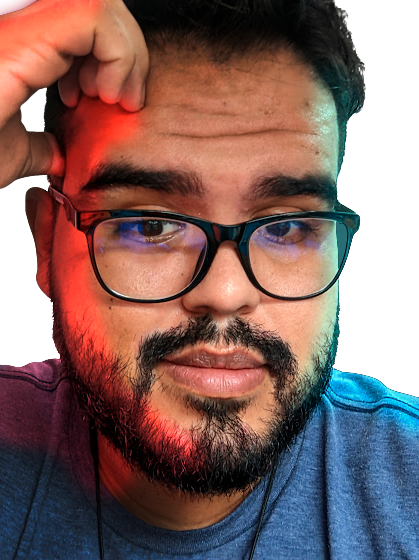
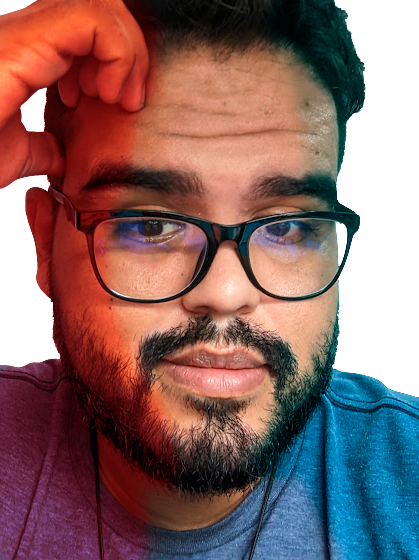
fixed background

diff --git a/css/main.min.css b/css/main.min.css
@@ -1,1 +1,1 @@
-@import"https://fonts.googleapis.com/css2?family=Poppins:ital,wght@0,300;0,400;0,500;0,600;1,300;1,400;1,500;1,600&display=swap";*{margin:0;padding:0;-webkit-box-sizing:border-box;box-sizing:border-box;text-decoration:none;list-style:none;font-family:"Poppins",sans-serif;font-weight:400;color:#fff;transition:.3s ease-in-out}a{text-decoration:none}button{border:0;background:rgba(0,0,0,0);cursor:pointer}img{height:auto;border:0;display:block;max-width:100%}html{font-size:62.5%}body{background-color:#262626}@keyframes activate{0%{transform:scale(0, 0)}100%{transform:scale(1, 1)}}.s-profile{margin:0 5%;display:flex}@media(max-width: 1440px){.s-profile{margin:0}}.s-profile .profile-pic{position:fixed;width:100%;min-height:61.7rem;left:0;background:url("../img/profile.png") top left no-repeat;background-size:contain}.s-profile .profile-pic img{height:auto;max-height:1080px}@media(max-width: 1440px){.s-profile .profile-pic{left:0}}@media(max-width: 600px){.s-profile .profile-pic{position:fixed;margin-left:0;left:0}}.s-profile .profile-desc{position:absolute;top:0;left:0;width:100%;min-height:100%;display:flex;flex-direction:column;align-items:flex-end;justify-content:right;background:#020024;background:linear-gradient(103deg, rgba(2, 0, 36, 0) 0%, rgba(38, 38, 38, 0.7763480392) 27%, rgb(38, 38, 38) 30%);background-size:cover;overflow:hidden}.s-profile .profile-desc h1{margin-top:5rem;margin-right:6rem;font-weight:600;font-size:10rem;text-align:right}@media(max-width: 600px){.s-profile .profile-desc h1{font-size:6rem;margin-right:10%}}.s-profile .profile-desc p{margin-right:6rem;font-weight:500;font-size:2rem;text-align:right}@media(max-width: 912px){.s-profile .profile-desc p{max-width:50%;margin-right:10%}}.s-profile .profile-desc .social{display:grid;align-items:center;justify-content:center;margin-right:5rem;margin-top:5rem;grid-template-columns:repeat(5, 1fr)}.s-profile .profile-desc .social .btn-social{height:9rem;width:16rem;margin:1rem;display:flex;align-items:center;justify-content:center;flex-direction:column;position:relative;background-color:#444343}.s-profile .profile-desc .social .btn-social .btn-social-bg{transition:all .5s ease-in-out;position:absolute;width:16rem;height:9rem;display:flex;justify-content:center;align-items:center;filter:grayscale(0%)}.s-profile .profile-desc .social .btn-social .btn-social-bg .btn-social-logo{filter:grayscale(0%);margin:10%;max-width:80%;max-height:80%;transition:all .5s ease-in-out}.s-profile .profile-desc .social .btn-social .btn-social-bg .btn-social-logo:hover{filter:grayscale(100%)}@media(max-width: 600px){.s-profile .profile-desc .social .btn-social{padding:20% 40%;left:15%;margin:5% 2rem;position:relative}}.s-profile .profile-desc .social .btn-social:hover{transform:scale(1.1)}.s-profile .profile-desc .social #yt-social:hover{background:url("../img/yt-bg.gif") center center no-repeat;background-size:cover}.s-profile .profile-desc .social #spotify-social:hover{background:url("../img/spotify-bg.gif") center center no-repeat;background-size:cover}.s-profile .profile-desc .social #dn-social:hover{background:url("../img/dn-bg.gif") center center no-repeat;background-size:cover}.s-profile .profile-desc .social #fm-social:hover{background:url("../img/fm-bg.gif") center center no-repeat;background-size:cover}.s-profile .profile-desc .social #cca-social:hover{background:url("../img/cca-bg.gif") center center no-repeat;background-size:cover}.s-profile .profile-desc .social #nc-social:hover{background:url("../img/nc-bg.gif") center center no-repeat;background-size:cover}.s-profile .profile-desc .social #kato-social:hover{background:url("../img/kato-bg.gif") center center no-repeat;background-size:cover}.s-profile .profile-desc .social #gow-social:hover{background:url("../img/gow-bg.gif") center center no-repeat;background-size:cover}.s-profile .profile-desc .social #blizz-social:hover{background:url("../img/blizz-bg.gif") center center no-repeat;background-size:cover}.s-profile .profile-desc .social #zelda-social:hover{background:url("../img/zelda-bg.gif") center center no-repeat;background-size:cover}@media(max-width: 980px){.s-profile .profile-desc .social{grid-template-columns:repeat(4, 1fr);grid-template-rows:repeat(3, 1fr)}}@media(max-width: 810px){.s-profile .profile-desc .social{grid-template-columns:repeat(3, 1fr);grid-template-rows:repeat(4, 1fr)}}@media(max-width: 600px){.s-profile .profile-desc .social{grid-template-columns:repeat(1, 1fr);grid-template-rows:repeat(10, 1fr);width:100%;margin:10%}.s-profile .profile-desc .social .btn-social{height:40rem}.s-profile .profile-desc .social .btn-social.active{transform:scale(1.1)}.s-profile .profile-desc .social .btn-social.active .btn-social-logo{filter:grayscale(100%)}.s-profile .profile-desc .social .btn-social .btn-social-bg{width:100%;height:100%}.s-profile .profile-desc .social .btn-social .btn-social-bg .btn-social-logo{width:30rem;height:auto}.s-profile .profile-desc .social #yt-social.active{background:url("../img/yt-bg.gif") center center no-repeat;background-size:cover}.s-profile .profile-desc .social #spotify-social.active{background:url("../img/spotify-bg.gif") center center no-repeat;background-size:cover}.s-profile .profile-desc .social #dn-social.active{background:url("../img/dn-bg.gif") center center no-repeat;background-size:cover}.s-profile .profile-desc .social #fm-social.active{background:url("../img/fm-bg.gif") center center no-repeat;background-size:cover}.s-profile .profile-desc .social #cca-social.active{background:url("../img/cca-bg.gif") center center no-repeat;background-size:cover}.s-profile .profile-desc .social #nc-social.active{background:url("../img/nc-bg.gif") center center no-repeat;background-size:cover}.s-profile .profile-desc .social #kato-social.active{background:url("../img/kato-bg.gif") center center no-repeat;background-size:cover}.s-profile .profile-desc .social #gow-social.active{background:url("../img/gow-bg.gif") center center no-repeat;background-size:cover}.s-profile .profile-desc .social #blizz-social.active{background:url("../img/blizz-bg.gif") center center no-repeat;background-size:cover}.s-profile .profile-desc .social #zelda-social.active{background:url("../img/zelda-bg.gif") center center no-repeat;background-size:cover}}@media(max-width: 1440px){.s-profile .profile-desc{margin:0;left:0;width:100%}}@media(max-width: 820px){.s-profile .profile-desc{background:linear-gradient(103deg, rgba(2, 0, 36, 0) 0%, rgba(38, 38, 38, 0.7763480392) 37%, rgb(38, 38, 38) 40%)}}
+@import"https://fonts.googleapis.com/css2?family=Poppins:ital,wght@0,300;0,400;0,500;0,600;1,300;1,400;1,500;1,600&display=swap";*{margin:0;padding:0;-webkit-box-sizing:border-box;box-sizing:border-box;text-decoration:none;list-style:none;font-family:"Poppins",sans-serif;font-weight:400;color:#fff;transition:.3s ease-in-out}a{text-decoration:none}button{border:0;background:rgba(0,0,0,0);cursor:pointer}img{height:auto;border:0;display:block;max-width:100%}html{font-size:62.5%}body{background-color:#262626}@keyframes activate{0%{transform:scale(0, 0)}100%{transform:scale(1, 1)}}.s-profile{margin:0 5%;display:flex}@media(max-width: 1440px){.s-profile{margin:0}}.s-profile .profile-pic{position:fixed;width:100%;min-height:61.7rem;left:0;background:url("../img/profile.png") top left no-repeat;background-size:contain}.s-profile .profile-pic img{height:auto;max-height:1080px}@media(max-width: 1440px){.s-profile .profile-pic{left:0}}@media(max-width: 600px){.s-profile .profile-pic{position:fixed;margin-left:0;left:0;background-size:cover}}.s-profile .profile-desc{position:absolute;top:0;left:0;width:100%;min-height:100%;display:flex;flex-direction:column;align-items:flex-end;justify-content:right;background:#020024;background:linear-gradient(103deg, rgba(2, 0, 36, 0) 0%, rgba(38, 38, 38, 0.7763480392) 27%, rgb(38, 38, 38) 30%);background-size:cover;overflow:hidden}.s-profile .profile-desc h1{margin-top:5rem;margin-right:6rem;font-weight:600;font-size:10rem;text-align:right}@media(max-width: 600px){.s-profile .profile-desc h1{font-size:6rem;margin-right:10%}}.s-profile .profile-desc p{margin-right:6rem;font-weight:500;font-size:2rem;text-align:right}@media(max-width: 912px){.s-profile .profile-desc p{max-width:50%;margin-right:10%}}.s-profile .profile-desc .social{display:grid;align-items:center;justify-content:center;margin-right:5rem;margin-top:5rem;grid-template-columns:repeat(5, 1fr)}.s-profile .profile-desc .social .btn-social{height:9rem;width:16rem;margin:1rem;display:flex;align-items:center;justify-content:center;flex-direction:column;position:relative;background-color:#444343}.s-profile .profile-desc .social .btn-social .btn-social-bg{transition:all .5s ease-in-out;position:absolute;width:16rem;height:9rem;display:flex;justify-content:center;align-items:center;filter:grayscale(0%)}.s-profile .profile-desc .social .btn-social .btn-social-bg .btn-social-logo{filter:grayscale(0%);margin:10%;max-width:80%;max-height:80%;transition:all .5s ease-in-out}.s-profile .profile-desc .social .btn-social .btn-social-bg .btn-social-logo:hover{filter:grayscale(100%)}@media(max-width: 600px){.s-profile .profile-desc .social .btn-social{padding:20% 40%;left:15%;margin:5% 2rem;position:relative}}.s-profile .profile-desc .social .btn-social:hover{transform:scale(1.1)}.s-profile .profile-desc .social #yt-social:hover{background:url("../img/yt-bg.gif") center center no-repeat;background-size:cover}.s-profile .profile-desc .social #spotify-social:hover{background:url("../img/spotify-bg.gif") center center no-repeat;background-size:cover}.s-profile .profile-desc .social #dn-social:hover{background:url("../img/dn-bg.gif") center center no-repeat;background-size:cover}.s-profile .profile-desc .social #fm-social:hover{background:url("../img/fm-bg.gif") center center no-repeat;background-size:cover}.s-profile .profile-desc .social #cca-social:hover{background:url("../img/cca-bg.gif") center center no-repeat;background-size:cover}.s-profile .profile-desc .social #nc-social:hover{background:url("../img/nc-bg.gif") center center no-repeat;background-size:cover}.s-profile .profile-desc .social #kato-social:hover{background:url("../img/kato-bg.gif") center center no-repeat;background-size:cover}.s-profile .profile-desc .social #gow-social:hover{background:url("../img/gow-bg.gif") center center no-repeat;background-size:cover}.s-profile .profile-desc .social #blizz-social:hover{background:url("../img/blizz-bg.gif") center center no-repeat;background-size:cover}.s-profile .profile-desc .social #zelda-social:hover{background:url("../img/zelda-bg.gif") center center no-repeat;background-size:cover}@media(max-width: 980px){.s-profile .profile-desc .social{grid-template-columns:repeat(4, 1fr);grid-template-rows:repeat(3, 1fr)}}@media(max-width: 810px){.s-profile .profile-desc .social{grid-template-columns:repeat(3, 1fr);grid-template-rows:repeat(4, 1fr)}}@media(max-width: 600px){.s-profile .profile-desc .social{grid-template-columns:repeat(1, 1fr);grid-template-rows:repeat(10, 1fr);width:100%;margin:10%}.s-profile .profile-desc .social .btn-social{height:40rem}.s-profile .profile-desc .social .btn-social.active{transform:scale(1.1)}.s-profile .profile-desc .social .btn-social.active .btn-social-logo{filter:grayscale(100%)}.s-profile .profile-desc .social .btn-social .btn-social-bg{width:100%;height:100%}.s-profile .profile-desc .social .btn-social .btn-social-bg .btn-social-logo{width:30rem;height:auto}.s-profile .profile-desc .social #yt-social.active{background:url("../img/yt-bg.gif") center center no-repeat;background-size:cover}.s-profile .profile-desc .social #spotify-social.active{background:url("../img/spotify-bg.gif") center center no-repeat;background-size:cover}.s-profile .profile-desc .social #dn-social.active{background:url("../img/dn-bg.gif") center center no-repeat;background-size:cover}.s-profile .profile-desc .social #fm-social.active{background:url("../img/fm-bg.gif") center center no-repeat;background-size:cover}.s-profile .profile-desc .social #cca-social.active{background:url("../img/cca-bg.gif") center center no-repeat;background-size:cover}.s-profile .profile-desc .social #nc-social.active{background:url("../img/nc-bg.gif") center center no-repeat;background-size:cover}.s-profile .profile-desc .social #kato-social.active{background:url("../img/kato-bg.gif") center center no-repeat;background-size:cover}.s-profile .profile-desc .social #gow-social.active{background:url("../img/gow-bg.gif") center center no-repeat;background-size:cover}.s-profile .profile-desc .social #blizz-social.active{background:url("../img/blizz-bg.gif") center center no-repeat;background-size:cover}.s-profile .profile-desc .social #zelda-social.active{background:url("../img/zelda-bg.gif") center center no-repeat;background-size:cover}}@media(max-width: 1440px){.s-profile .profile-desc{margin:0;left:0;width:100%}}@media(max-width: 820px){.s-profile .profile-desc{background:linear-gradient(103deg, rgba(2, 0, 36, 0) 0%, rgba(38, 38, 38, 0.7763480392) 37%, rgb(38, 38, 38) 40%)}}

diff --git a/scss/_home.scss b/scss/_home.scss
@@ -22,6 +22,7 @@
             position: fixed;
             margin-left: 0;
             left: 0;
+            background-size: cover;
         }
     }
     .profile-desc {
